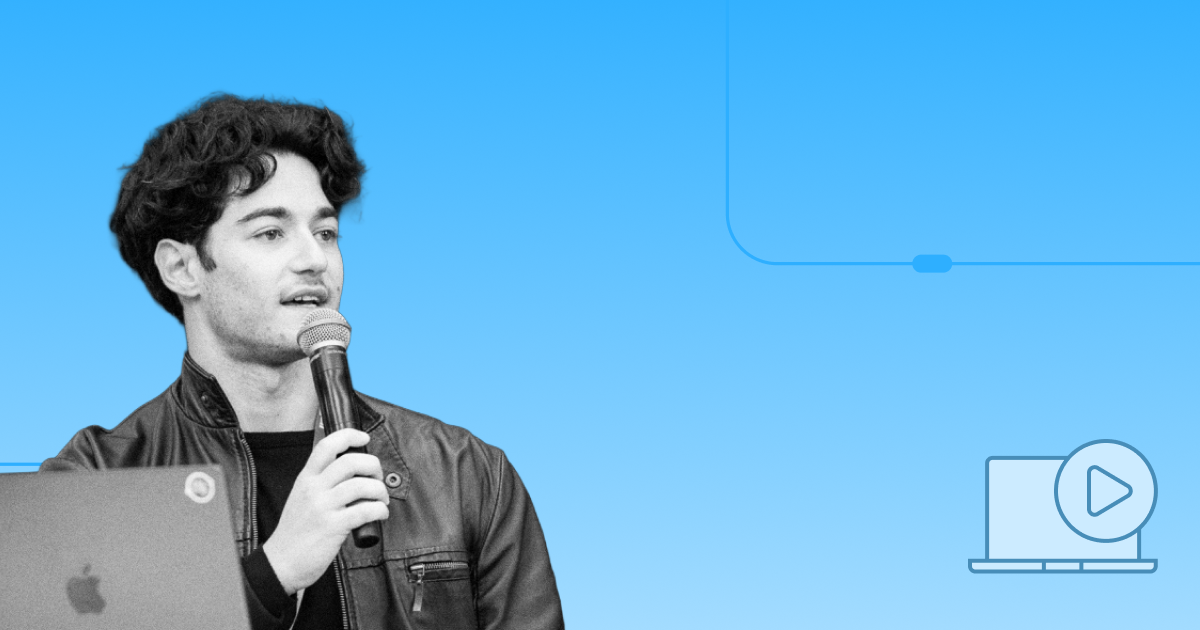
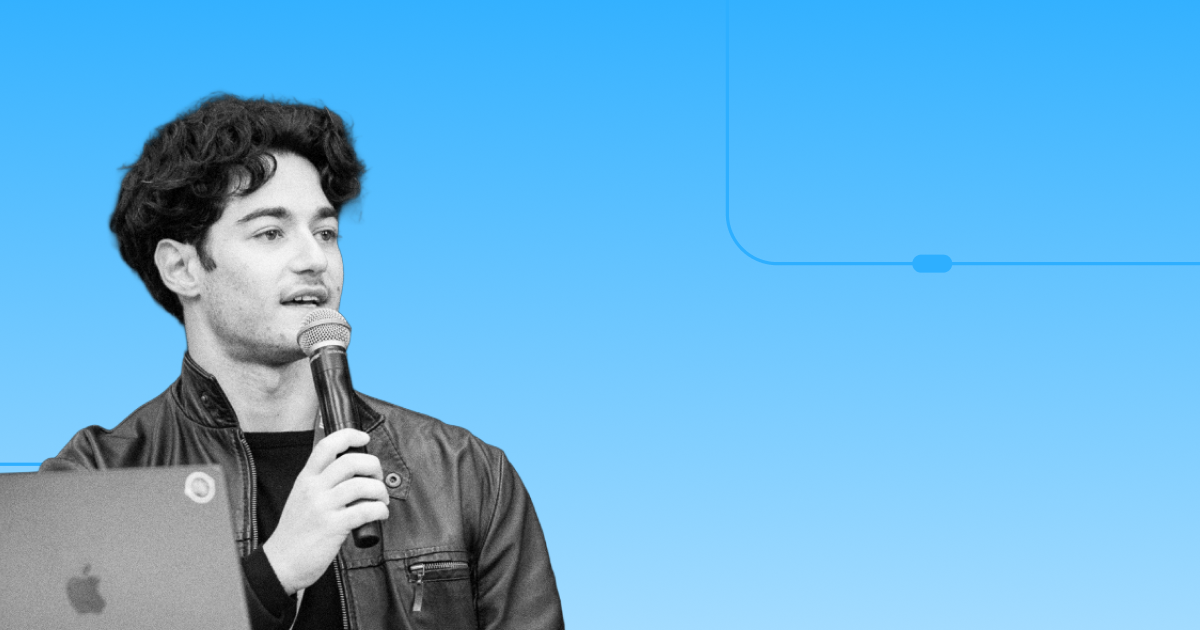
Library thumbnail update
- Remove icon from library thumbnails
- Resize overlay icon

Changed region(s): [[0.8017, 0.6937, 0.9867, 0.9349]]

diff --git a/_sass/pages/_blog.scss b/_sass/pages/_blog.scss
@@ -54,7 +54,7 @@ section.speakers,
 				position: absolute;
 				right: 0;
 				bottom: 0;
-				width: 130px;
+				width: 100px;
 				aspect-ratio: 1;
 				pointer-events: none;
 				img{
